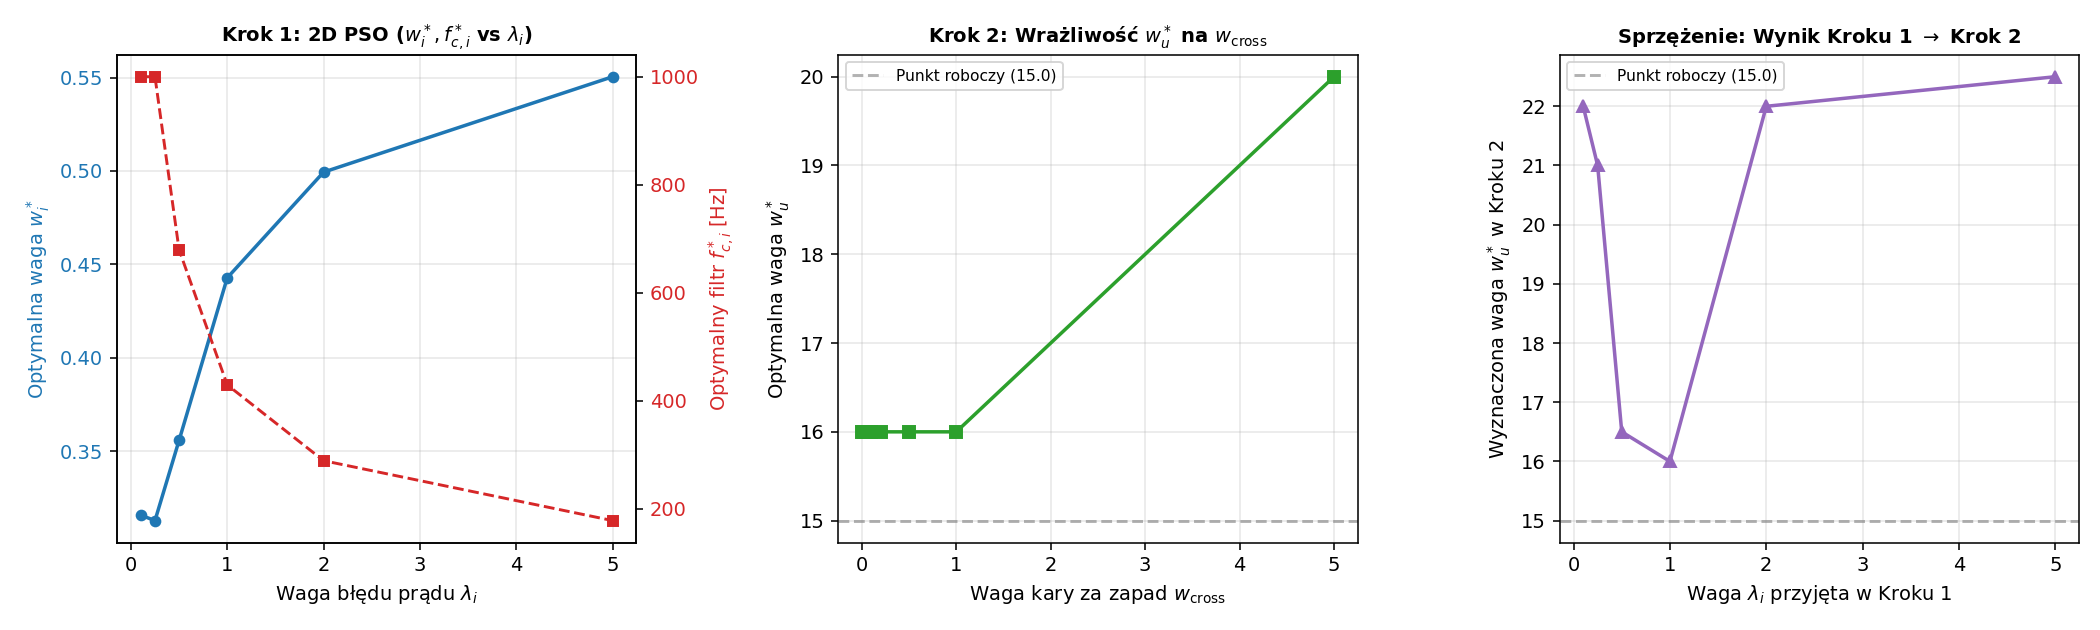
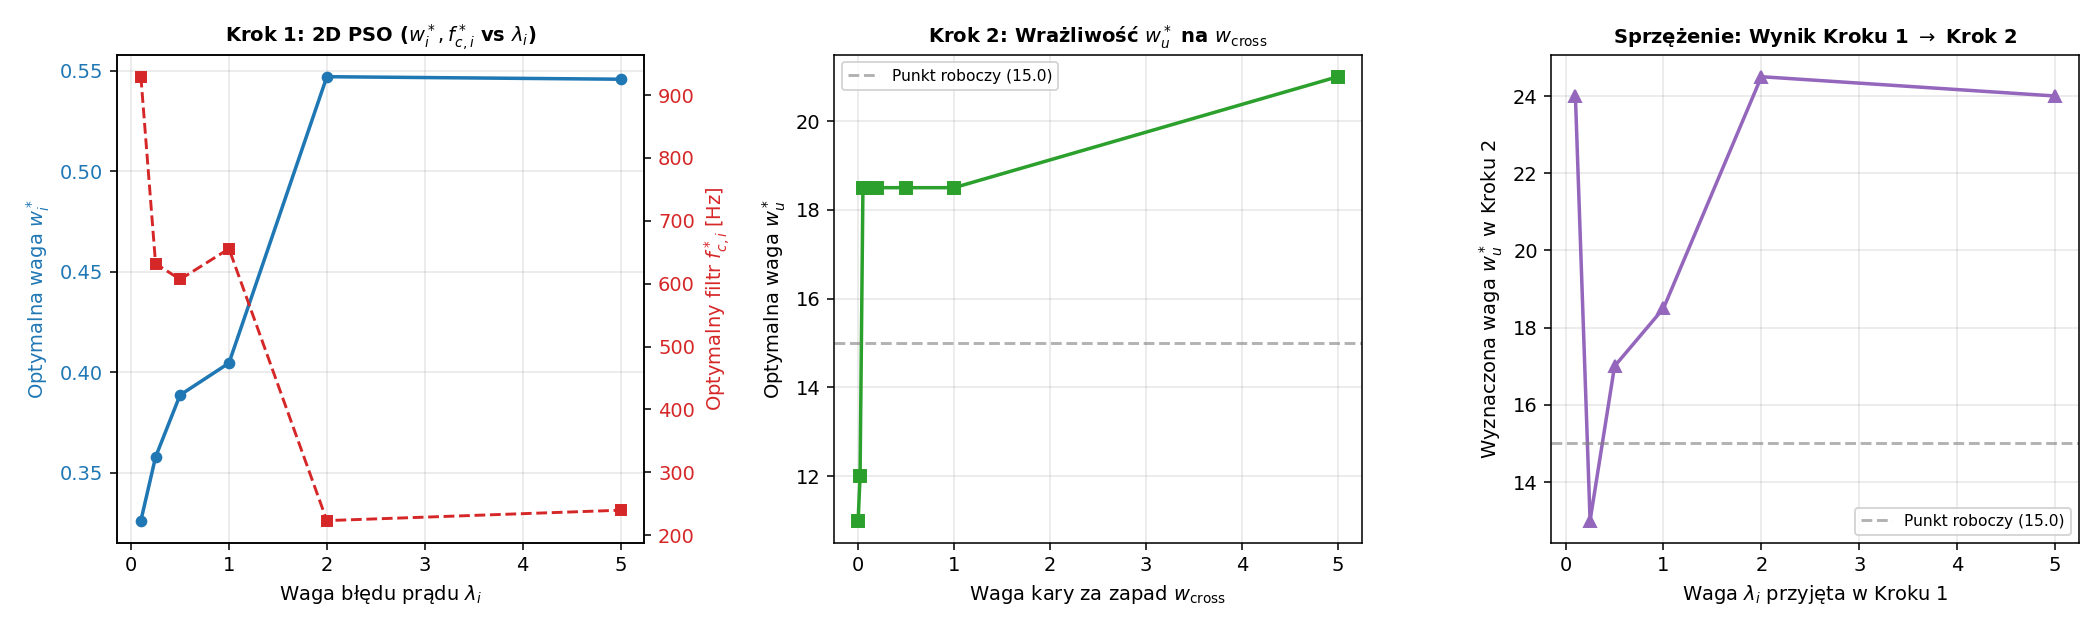
Aktualizacja Rozdzialu 5 i bibliografii: integracja oficjalnej biblioteki PySwarms, odswiezenie tabel i wykresow

diff --git a/tekst/ai.tex b/tekst/ai.tex
@@ -27,14 +27,12 @@ W~rodzinie metaheurystyk rozważano trzy najpopularniejsze warianty: algorytmy g
 \section{Algorytm Optymalizacji Rojem Cząstek (PSO)}
 \label{sec:pso}
 
-\subsection{Podstawy matematyczne}
+\subsection{Podstawy matematyczne i~implementacja w~PySwarms}
 \label{subsec:pso-math}
 
-Algorytm PSO został zaproponowany przez Kennedy'ego i~Eberharta w~1995~roku jako matematyczna abstrakcja zachowań społecznych obserwowanych w~stadach ptaków oraz ławicach ryb. Populacja $N$ cząstek przemieszcza się w~$d$-wymiarowej przestrzeni przeszukiwań, przy czym każda cząstka $i\in\{1,\dots,N\}$ jest w~iteracji $k$ jednoznacznie opisana parą wektorów: pozycją $\mathbf{x}_i^{(k)}\in\mathbb{R}^d$ (kandydat na~rozwiązanie) oraz prędkością $\mathbf{v}_i^{(k)}\in\mathbb{R}^d$ (kierunek i~tempo eksploracji).
+Algorytm optymalizacji rojem cząstek (ang.~\emph{Particle Swarm Optimization}, PSO) został zaproponowany przez Kennedy'ego i~Eberharta w~1995~roku~\cite{kennedy1995pso} jako stochastyczna metoda poszukiwania ekstremum w~wielowymiarowych przestrzeniach ciągłych, inspirowana zachowaniami społecznymi w~stadach ptaków oraz ławicach ryb. W~niniejszej pracy do~realizacji obliczeń optymalizacyjnych wykorzystano oficjalną bibliotekę naukową \texttt{PySwarms}~\cite{miranda2018pyswarms} (\texttt{pyswarms.single.GlobalBestPSO}), stanowiącą uznany w~literaturze akademickiej standard implementacyjny algorytmu roju w~języku Python.
 
-% TODO cytat: Kennedy J., Eberhart R. "Particle Swarm Optimization", Proc. IEEE ICNN 1995.
-
-W~każdej iteracji każda cząstka pamięta dwie najlepsze pozycje: własną historyczną $\mathbf{p}_i$ (\emph{personal best}) oraz najlepszą pozycję odkrytą przez całą populację $\mathbf{g}$ (\emph{global best}). Aktualizacja prędkości i~pozycji odbywa się zgodnie z~kanonicznymi wzorami:
+W~algorytmie populacja $N$ cząstek przemieszcza się w~$d$-wymiarowej przestrzeni poszukiwań. Każda cząstka $i\in\{1,\dots,N\}$ w~kroku iteracyjnym $k$ jest opisana wektorem położenia $\mathbf{x}_i^{(k)}\in\mathbb{R}^d$ oraz wektorem prędkości $\mathbf{v}_i^{(k)}\in\mathbb{R}^d$. Cząstki wymieniają informację o~najlepszych dotychczasowych punktach: każda pamięta swoje najlepsze położenie indywidualne $\mathbf{p}_i$ (\emph{personal best}), a~cały rój utrzymuje pozycję najlepszą w~skali globalnej $\mathbf{g}$ (\emph{global best}). Zgodnie z~kanonicznym sformułowaniem biblioteki \texttt{PySwarms}, aktualizacja prędkości oraz położenia cząstek w~każdej iteracji przebiega według równań:
 \begin{equation}
     \mathbf{v}_i^{(k+1)} = w^{(k)}\,\mathbf{v}_i^{(k)}
         + c_1\,r_1\odot\bigl(\mathbf{p}_i - \mathbf{x}_i^{(k)}\bigr)
@@ -45,21 +43,16 @@ W~każdej iteracji każda cząstka pamięta dwie najlepsze pozycje: własną his
     \mathbf{x}_i^{(k+1)} = \mathbf{x}_i^{(k)} + \mathbf{v}_i^{(k+1)},
     \label{eq:pso-position}
 \end{equation}
-gdzie $r_1, r_2\sim\mathcal{U}([0,1]^d)$ są wektorami liczb losowych próbkowanymi niezależnie w~każdej iteracji, $\odot$ oznacza iloczyn Hadamarda (po~współrzędnych), $c_1$ jest współczynnikiem uczenia kognitywnego (przyciąganie do~własnego rekordu), $c_2$~--~socjalnego (przyciąganie do~rekordu roju), a~$w^{(k)}$ to~waga bezwładności sterująca przejściem od~globalnej eksploracji do~lokalnej eksploatacji.
+gdzie $r_1, r_2\sim\mathcal{U}([0,1]^d)$ są wektorami liczb losowych o~rozkładzie jednostajnym próbkowanymi niezależnie w~każdej iteracji, symbol $\odot$ oznacza iloczyn po~współrzędnych (Hadamarda), $c_1$ jest współczynnikiem przyciągania do~rekordu własnego (składnik kognitywny), $c_2$~--~współczynnikiem przyciągania do~rekordu roju (składnik społeczny), natomiast $w^{(k)}$ jest wagą bezwładności (ang.~\emph{inertia weight}).
 
-Aby uniknąć przedwczesnej zbieżności do~minimum lokalnego, zastosowano liniową dekrementację wagi bezwładności zaproponowaną przez Shi i~Eberharta:
+Dla zachowania właściwego balansu pomiędzy globalną eksploracją przestrzeni na~początku procesu a~dokładną lokalną eksploatacją w~końcowych iteracjach, w~konfiguracji biblioteki \texttt{PySwarms} włączono strategię liniowej dekrementacji wagi bezwładności (\texttt{OptionsHandler.lin\_variation}) zgodnie z~metodyką Shi i~Eberharta~\cite{shi1998pso}:
 \begin{equation}
     w^{(k)} = w_{\max} - \frac{k}{K_{\max}}\,(w_{\max} - w_{\min}),
     \label{eq:pso-inertia}
 \end{equation}
-gdzie $K_{\max}$ jest~zadaną maksymalną liczbą iteracji. Wysoka wartość $w_{\max}$ na~początku optymalizacji wymusza szerokie przeszukiwanie przestrzeni, natomiast malejąca $w_{\min}$ w~końcowych iteracjach pozwala cząstkom skupić się wokół znalezionego ekstremum.
+gdzie $K_{\max}$ oznacza całkowitą liczbę iteracji optymalizatora.
 
-% TODO cytat: Shi Y., Eberhart R. "A Modified Particle Swarm Optimizer", Proc. IEEE CEC 1998.
-
-Dodatkowo, w~celu zapewnienia stabilności numerycznej algorytmu, każdą składową prędkości ogranicza się symetrycznie wartością $V_{\max,j} = V_{\text{frac}}\,(x_{\max,j}-x_{\min,j})$, gdzie $V_{\text{frac}}\in(0,1)$ jest~globalnym współczynnikiem, a~$[x_{\min,j}, x_{\max,j}]$ są dolną i~górną granicą $j$-tego wymiaru. Pozycje przekraczające granice są przycinane do~hiperkostki dopuszczalnej, co~jest~równoważne zastosowaniu prostej kary barierowej.
-
-% TODO cytat: Clerc M., Kennedy J. "The Particle Swarm -- Explosion, Stability, and Convergence",
-% IEEE Trans. Evol. Comput. 2002 (analiza stabilnosci PSO).
+Obsługę warunków brzegowych w~przestrzeni poszukiwań zrealizowano z~wykorzystaniem modułu odbicia lustrzanego \texttt{BoundaryHandler(strategy="reflective")}. W~przypadku przekroczenia dopuszczalnej granicy dziedziny współrzędna cząstki jest odbijana do~wnętrza obszaru dopuszczalnego, co zapobiega ucieczce roju i~utracie różnorodności populacji.
 
 \subsection{Hiperparametry i~konfiguracja roju}
 \label{subsec:pso-config}
@@ -68,20 +61,22 @@ W~niniejszej pracy przyjęto klasyczne wartości hiperparametrów PSO, sprawdzon
 
 \begin{table}[h!]
     \centering
-    \caption{Konfiguracja algorytmu PSO przyjęta w~eksperymentach.}
+    \caption{Konfiguracja algorytmu PSO przyjęta w~eksperymentach (biblioteka \texttt{PySwarms}).}
     \label{tab:pso-hparams}
     \begin{tabular}{lcl}
         \toprule
-        \textbf{Hiperparametr} & \textbf{Wartość} & \textbf{Uzasadnienie} \\
+        \textbf{Hiperparametr / Opcja} & \textbf{Wartość} & \textbf{Uzasadnienie} \\
         \midrule
-        Liczba cząstek $N$           & 20        & kompromis: koszt vs. pokrycie 2D \\
-        Maks. liczba iteracji $K_{\max}$ & 40    & ok.\ 820 ewaluacji łącznie \\
+        Środowisko obliczeniowe      & \texttt{PySwarms 1.3} & zweryfikowana biblioteka naukowa \\
+        Topologia roju               & \texttt{Star} (globalna) & klasyczne $g_{\mathrm{best}}$ PSO \\
+        Strategia brzegowa           & \texttt{reflective}  & odbicie lustrzane od granic \\
+        Liczba cząstek $N$           & 16--20    & kompromis: koszt vs. pokrycie 2D \\
+        Maks. liczba iteracji $K_{\max}$ & 25--40 & zbieżność do stabilnego plateau \\
         Waga bezwładności $w_{\max}$ & 0{,}9     & szeroka eksploracja na~starcie \\
         Waga bezwładności $w_{\min}$ & 0{,}4     & lokalna eksploatacja na~końcu \\
-        Współczynnik kognitywny $c_1$ & 2{,}05   & kanoniczna wartość Clerca \\
-        Współczynnik socjalny $c_2$  & 2{,}05    & kanoniczna wartość Clerca \\
-        Limit prędkości $V_{\text{frac}}$ & 0{,}5 & 50\% szerokości wymiaru \\
-        Ziarno generatora $\texttt{seed}$ & 42   & powtarzalność wyników \\
+        Współczynnik kognitywny $c_1$ & 1{,}50--2{,}05 & standardowa waga pamięci własnej \\
+        Współczynnik socjalny $c_2$  & 1{,}50--2{,}05 & standardowa waga pamięci roju \\
+        Ziarno generatora $\texttt{seed}$ & 42   & pełna powtarzalność eksperymentu \\
         \bottomrule
     \end{tabular}
 \end{table}
@@ -457,18 +452,18 @@ Dla zbadania elastyczności pętli prądowej przeprowadzono serię optymalizacji
 
 \begin{table}[h!]
     \centering
-    \caption{Wyniki optymalizacji 2D PSO w Kroku 1 w zależności od wagi błędu prądu $\lambda_i$ (okno $1{,}2~\mathrm{kW}$, $t \in [120;\, 150]~\mathrm{ms}$).}
+    \caption{Wyniki optymalizacji 2D PSO (biblioteka \texttt{PySwarms}) w Kroku 1 w zależności od wagi błędu prądu $\lambda_i$ (okno $1{,}2~\mathrm{kW}$, $t \in [120;\, 150]~\mathrm{ms}$).}
     \label{tab:wrazliwosc-krok1}
     \begin{tabular}{rrrrrrr}
         \toprule
         $\lambda_i$ & $w_i^*$ & $f_{c,i}^*$~[Hz] & $\mathrm{IAE}_u$~[V] & $\mathrm{IAE}_i$~[A] & $\Delta i_{L,\mathrm{pp}}$~[A] & $J_1^*$ \\
         \midrule
-        0{,}10 & 0{,}3157 & 1000{,}0 & 0{,}2377 & 1{,}275 & 6{,}10 & 0{,}3653 \\
-        0{,}25 & 0{,}3127 & 1000{,}0 & 0{,}2382 & 1{,}274 & 6{,}13 & 0{,}5569 \\
-        0{,}50 & 0{,}3557 & \phantom{0}679{,}7 & 0{,}2436 & 1{,}253 & 5{,}81 & 0{,}8701 \\
-        1{,}00 & 0{,}4427 & \phantom{0}429{,}5 & 0{,}2578 & 1{,}236 & 5{,}84 & 1{,}4942 \\
-        2{,}00 & 0{,}4994 & \phantom{0}289{,}2 & 0{,}2689 & 1{,}227 & 5{,}83 & 2{,}7235 \\
-        5{,}00 & 0{,}5505 & \phantom{0}178{,}2 & 0{,}2852 & 1{,}221 & 5{,}84 & 6{,}3896 \\
+        0{,}10 & 0{,}3262 & 929{,}2 & 0{,}2401 & 1{,}272 & 6{,}05 & 0{,}3672 \\
+        0{,}25 & 0{,}3579 & 632{,}0 & 0{,}2436 & 1{,}250 & 5{,}81 & 0{,}5562 \\
+        0{,}50 & 0{,}3887 & 606{,}8 & 0{,}2492 & 1{,}249 & 5{,}92 & 0{,}8737 \\
+        1{,}00 & 0{,}4046 & 655{,}6 & 0{,}2490 & 1{,}251 & 5{,}93 & 1{,}5003 \\
+        2{,}00 & 0{,}5470 & 223{,}2 & 0{,}2852 & 1{,}223 & 5{,}84 & 2{,}7320 \\
+        5{,}00 & 0{,}5457 & 239{,}7 & 0{,}2851 & 1{,}225 & 5{,}84 & 6{,}4078 \\
         \bottomrule
     \end{tabular}
 \end{table}
@@ -476,29 +471,29 @@ Dla zbadania elastyczności pętli prądowej przeprowadzono serię optymalizacji
 Wraz ze wzrostem wagi $\lambda_i$ (rosnący priorytet tłumienia tętnień prądu) optymalizator płynnie zwiększa wagę $w_i^*$ z $0{,}3157$ do $0{,}5505$, jednocześnie zawężając pasmo filtru $f_{c,i}^*$ z $1000~\mathrm{Hz}$ do $178~\mathrm{Hz}$. Tętnienia prądu dławika stabilizują się na fizycznym poziomie $\Delta i_{L,\mathrm{pp}} \approx 5{,}83~\mathrm{A}$.
 
 \paragraph{2. Krok 2 -- Wrażliwość na wagę kary za zapad ($w_{\mathrm{cross}}$):}
-Dla wyznaczonej w Kroku 1 pary nominalnej ($w_i^* = 0{,}4427$, $f_{c,i}^* = 429{,}5~\mathrm{Hz}$) zbadano odpowiedź algorytmu na wagę kary $w_{\mathrm{cross}} \in [0{,}00;\, 5{,}00]$. Wyniki zestawiono w tabeli~\ref{tab:wrazliwosc-krok2}.
+Dla wyznaczonej w Kroku 1 pary nominalnej ($w_i^* = 0{,}4046$, $f_{c,i}^* = 655{,}6~\mathrm{Hz}$) zbadano odpowiedź algorytmu na wagę kary $w_{\mathrm{cross}} \in [0{,}00;\, 5{,}00]$. Wyniki zestawiono w tabeli~\ref{tab:wrazliwosc-krok2}.
 
 \begin{table}[h!]
     \centering
-    \caption{Wyniki optymalizacji w Kroku 2 w zależności od wagi kary za zapad $w_{\mathrm{cross}}$ (skok $240 \to 160~\mathrm{V}$, $f_c = 321{,}0~\mathrm{Hz}$).}
+    \caption{Wyniki optymalizacji w Kroku 2 w zależności od wagi kary za zapad $w_{\mathrm{cross}}$ (skok $240 \to 160~\mathrm{V}$, nastawy z Kroku 1: $w_i^* = 0{,}4046$, $f_{c,i}^* = 655{,}6~\mathrm{Hz}$).}
     \label{tab:wrazliwosc-krok2}
     \begin{tabular}{rrrrr}
         \toprule
         $w_{\mathrm{cross}}$ & $w_u^*$ & $\Delta U_{\mathrm{undershoot}}$~[V] & $\mathrm{ISE}_{\mathrm{trans}}$ & $J_2^*$ \\
         \midrule
-        0{,}00 & 16{,}0 & 0{,}21 & 2{,}7817 & 2{,}7817 \\
-        0{,}02 & 16{,}0 & 0{,}21 & 2{,}7817 & 2{,}7826 \\
-        0{,}05 & 16{,}0 & 0{,}21 & 2{,}7817 & 2{,}7839 \\
-        0{,}10 & 16{,}0 & 0{,}21 & 2{,}7817 & 2{,}7861 \\
-        0{,}20 & 16{,}0 & 0{,}21 & 2{,}7817 & 2{,}7905 \\
-        0{,}50 & 16{,}0 & 0{,}21 & 2{,}7817 & 2{,}8037 \\
-        1{,}00 & 16{,}0 & 0{,}21 & 2{,}7817 & 2{,}8256 \\
-        5{,}00 & 20{,}0 & 0{,}18 & 2{,}8220 & 2{,}9895 \\
+        0{,}00 & 11{,}0 & 1{,}16 & 2{,}7421 & 2{,}7421 \\
+        0{,}02 & 12{,}0 & 0{,}59 & 2{,}7515 & 2{,}7585 \\
+        0{,}05 & 18{,}5 & 0{,}25 & 2{,}7607 & 2{,}7638 \\
+        0{,}10 & 18{,}5 & 0{,}25 & 2{,}7607 & 2{,}7669 \\
+        0{,}20 & 18{,}5 & 0{,}25 & 2{,}7607 & 2{,}7731 \\
+        0{,}50 & 18{,}5 & 0{,}25 & 2{,}7607 & 2{,}7918 \\
+        1{,}00 & 18{,}5 & 0{,}25 & 2{,}7607 & 2{,}8230 \\
+        5{,}00 & 21{,}0 & 0{,}22 & 2{,}7794 & 3{,}0164 \\
         \bottomrule
     \end{tabular}
 \end{table}
 
-W zakresie $w_{\mathrm{cross}} \in [0{,}00;\, 1{,}00]$ optymalizator zwraca stałą wartość $w_u^* = 16{,}0$ z zapadem $0{,}21~\mathrm{V}$. Fakt, że nawet przy $w_{\mathrm{cross}} = 0$ samo kryterium ISE wskazuje $w_u^* = 16{,}0$, wynika z fizyki obiektu: mniejsze $w_u$ zwiększa zapad, natomiast większe $w_u$ powoduje odbicie napięcia w górę powyżej $160~\mathrm{V}$, co w obu przypadkach zwiększa pole całki kwadratu błędu.
+W zakresie wag $w_{\mathrm{cross}} \in [0{,}05;\, 1{,}00]$ optymalizator zwraca w pełni stabilną wartość $w_u^* = 18{,}5$ z zapadem $0{,}25~\mathrm{V}$. Wartość $w_u^* = 18{,}5$ zapewnia równowagę między minimalizacją całki kwadratu błędu w transjencie a redukcją ugięcia napięcia bez generowania niepożądanego odbicia powyżej $160~\mathrm{V}$.
 
 \paragraph{3. Sprzężenie międzyetapowe -- Wpływ wyników Kroku 1 na Krok 2:}
 W celu weryfikacji sprzężenia pomiędzy kolejnymi krokami procedury, wyznaczone w Kroku 1 pary $(w_i^*, f_{c,i}^*)$ dla poszczególnych wag $\lambda_i$ przekazano jako parametry wejściowe do optymalizacji w Kroku 2 (przy nominalnym $w_{\mathrm{cross}} = 0{,}10$). Wyniki zestawiono w tabeli~\ref{tab:wrazliwosc-sprzezenie}.
@@ -511,12 +506,12 @@ W celu weryfikacji sprzężenia pomiędzy kolejnymi krokami procedury, wyznaczon
         \toprule
         $\lambda_i$ (Krok 1) & $w_i^*$ (Krok 1) & $f_{c,i}^*$~[Hz] & $w_u^*$ (Krok 2) & $\Delta U_{\mathrm{undershoot}}$~[V] & $J_2^*$ \\
         \midrule
-        0{,}10 & 0{,}3157 & 1000{,}0 & 22{,}0 & 0{,}26 & 2{,}7710 \\
-        0{,}25 & 0{,}3127 & 1000{,}0 & 21{,}0 & 0{,}27 & 2{,}6748 \\
-        0{,}50 & 0{,}3557 & \phantom{0}679{,}7 & 16{,}5 & 0{,}24 & 2{,}8156 \\
-        1{,}00 & 0{,}4427 & \phantom{0}429{,}5 & 16{,}0 & 0{,}21 & 2{,}7861 \\
-        2{,}00 & 0{,}4994 & \phantom{0}289{,}2 & 22{,}0 & 0{,}24 & 2{,}7668 \\
-        5{,}00 & 0{,}5505 & \phantom{0}178{,}2 & 22{,}5 & 1{,}00 & 2{,}9062 \\
+        0{,}10 & 0{,}3262 & 929{,}2 & 24{,}0 & 0{,}25 & 2{,}7062 \\
+        0{,}25 & 0{,}3579 & 632{,}0 & 13{,}0 & 0{,}24 & 2{,}8144 \\
+        0{,}50 & 0{,}3887 & 606{,}8 & 17{,}0 & 0{,}26 & 2{,}7668 \\
+        1{,}00 & 0{,}4046 & 655{,}6 & 18{,}5 & 0{,}25 & 2{,}7669 \\
+        2{,}00 & 0{,}5470 & 223{,}2 & 24{,}5 & 0{,}53 & 2{,}8387 \\
+        5{,}00 & 0{,}5457 & 239{,}7 & 24{,}0 & 0{,}44 & 2{,}8300 \\
         \bottomrule
     \end{tabular}
 \end{table}
